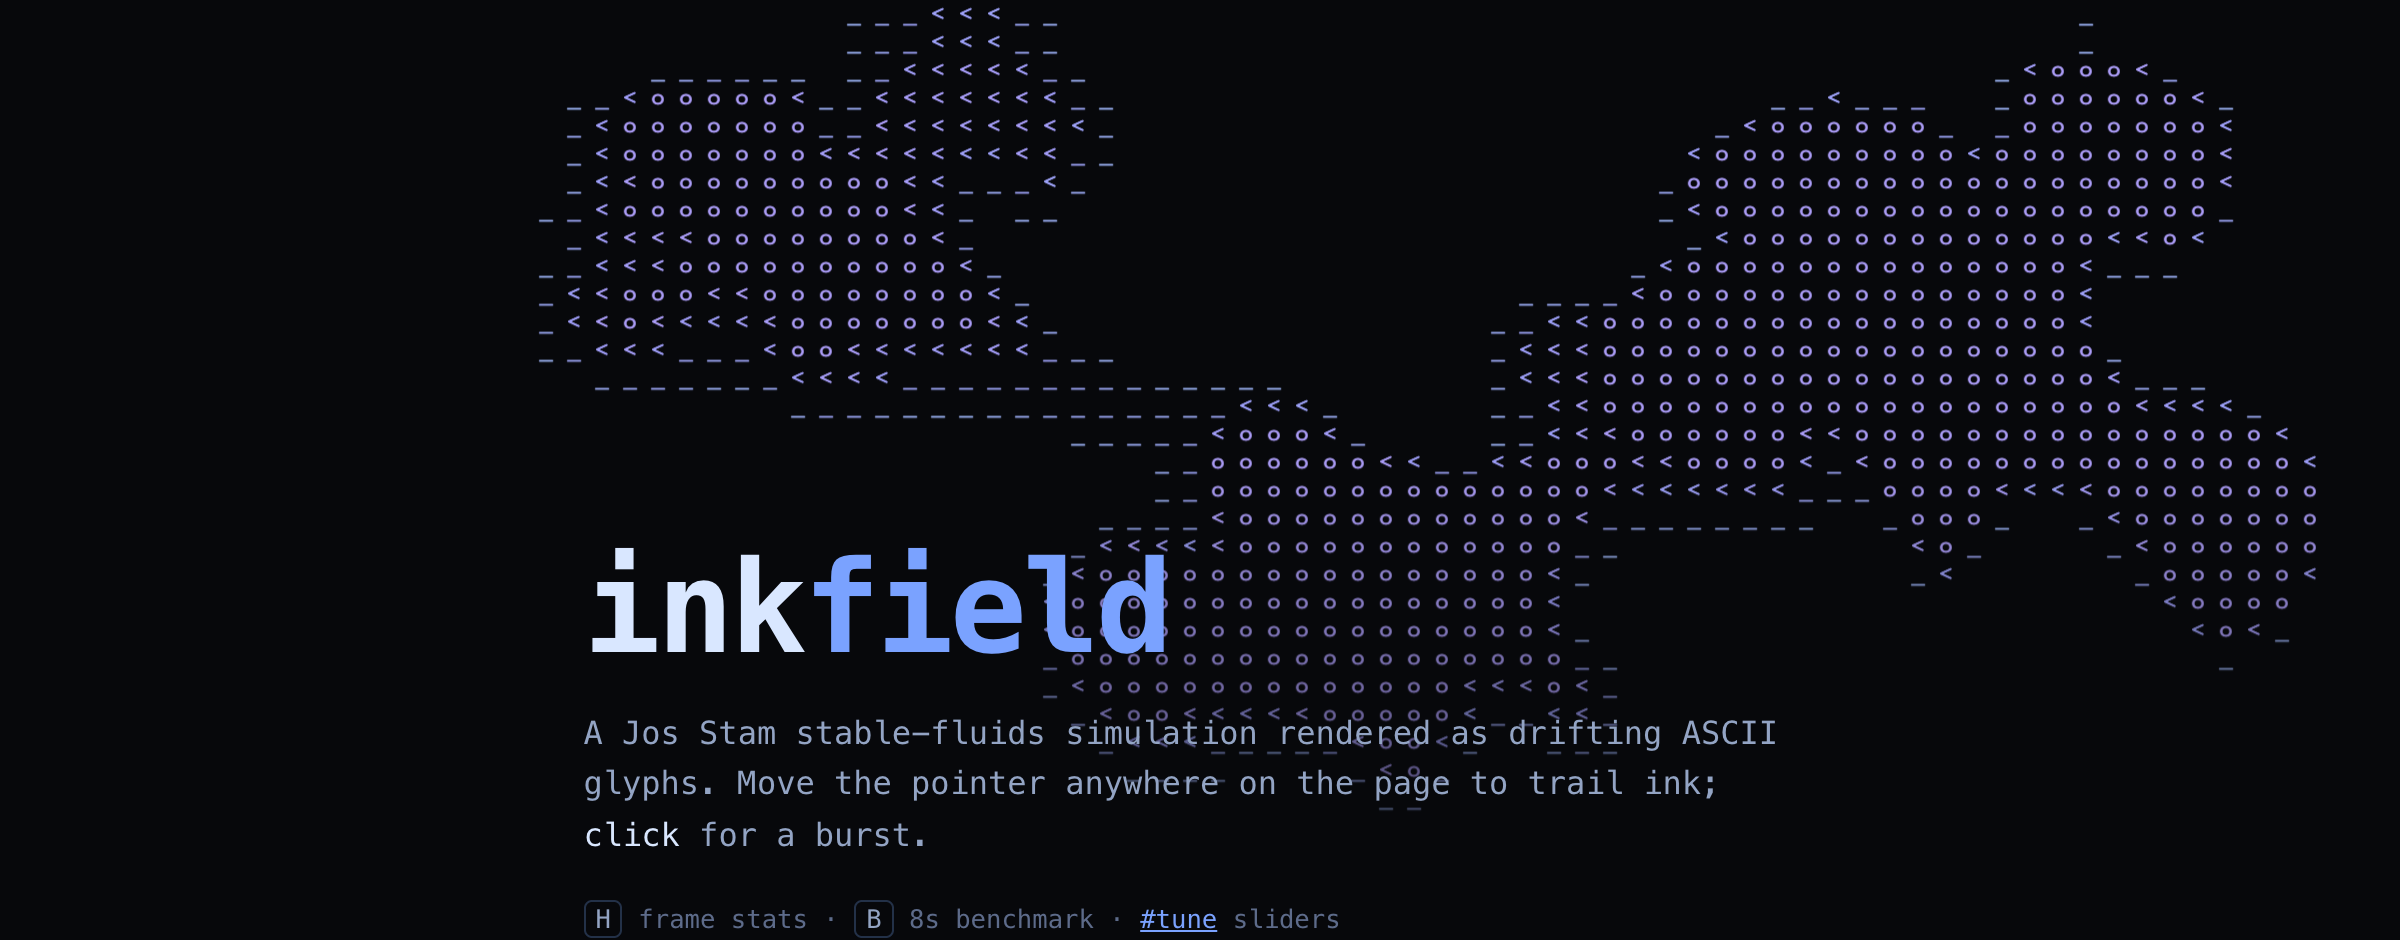
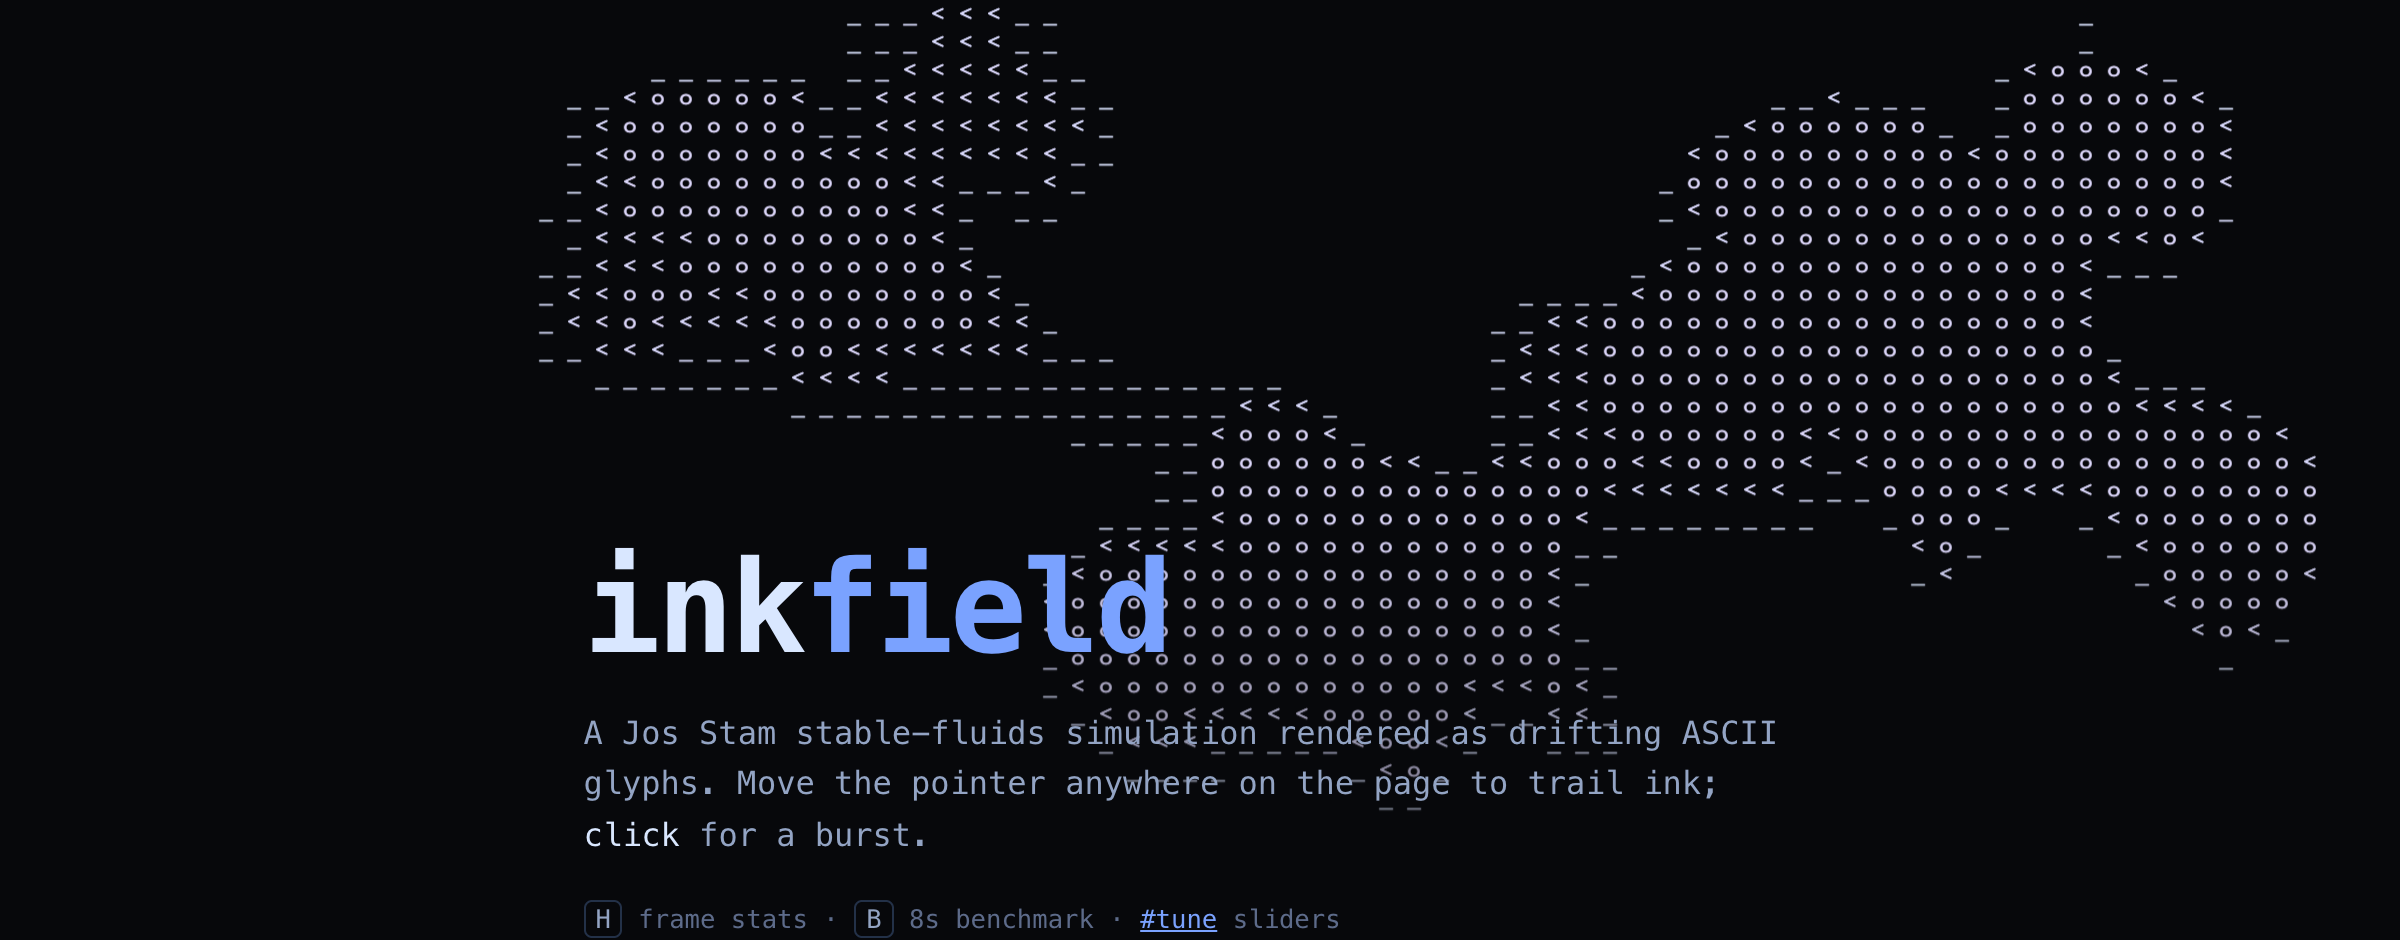
feat: brighten the glyphs so faint ink stays visible on black
Brightness never varied with density -- the shader only shifts hue -- so a
fading trail is not dimmer ink, it is the ramp dropping to '_', a thin mark
carrying very few pixels. At lightness 80 those marks disappeared into the
background well before the simulation stopped tracking them.

lightness 80 -> 92, saturation 90 -> 88. The demo's mask floor goes with it,
0.15 -> 0.28, since a wash tuned against dimmer glyphs was hiding the ones
behind the body copy.

The cost is hue: at lightness 92 HSL collapses toward white, so baseHue and
hueShift read as a tint rather than a colour. Drop lightness back toward 80
for a saturated look.

diff --git a/index.html b/index.html
@@ -26,8 +26,8 @@
       /* Full strength through the hero, then down to a wash for the rest of the page, so
          ink still moves behind the copy without competing with it. The stops are in vh so
          the falloff stays anchored to the banner however long the page gets. */
-      -webkit-mask-image: linear-gradient(to bottom, #000 0, #000 30vh, rgba(0,0,0,0.20) 64vh, rgba(0,0,0,0.15) 100%);
-      mask-image: linear-gradient(to bottom, #000 0, #000 30vh, rgba(0,0,0,0.20) 64vh, rgba(0,0,0,0.15) 100%);
+      -webkit-mask-image: linear-gradient(to bottom, #000 0, #000 34vh, rgba(0,0,0,0.34) 64vh, rgba(0,0,0,0.28) 100%);
+      mask-image: linear-gradient(to bottom, #000 0, #000 34vh, rgba(0,0,0,0.34) 64vh, rgba(0,0,0,0.28) 100%);
     }
     /* Everything readable sits above the canvas. */
     .hero, main { position: relative; z-index: 1; }
@@ -322,8 +322,8 @@ const defaults = {
   clickDensity: 3.1,
   baseHue: 210,
   hueShift: 40,
-  saturation: 90,
-  lightness: 80,
+  saturation: 88,
+  lightness: 92,   // glyphs are thin marks on a dark ground; below ~90 the faint ones vanish
   alpha: 1,
 };
 

diff --git a/demo/index.html b/demo/index.html
@@ -25,8 +25,8 @@
       /* Full strength through the hero, then down to a wash for the rest of the page, so
          ink still moves behind the copy without competing with it. The stops are in vh so
          the falloff stays anchored to the banner however long the page gets. */
-      -webkit-mask-image: linear-gradient(to bottom, #000 0, #000 30vh, rgba(0,0,0,0.20) 64vh, rgba(0,0,0,0.15) 100%);
-      mask-image: linear-gradient(to bottom, #000 0, #000 30vh, rgba(0,0,0,0.20) 64vh, rgba(0,0,0,0.15) 100%);
+      -webkit-mask-image: linear-gradient(to bottom, #000 0, #000 34vh, rgba(0,0,0,0.34) 64vh, rgba(0,0,0,0.28) 100%);
+      mask-image: linear-gradient(to bottom, #000 0, #000 34vh, rgba(0,0,0,0.34) 64vh, rgba(0,0,0,0.28) 100%);
     }
     /* Everything readable sits above the canvas. */
     .hero, main { position: relative; z-index: 1; }

diff --git a/src/inkfield.js b/src/inkfield.js
@@ -19,8 +19,8 @@ export const defaults = {
   clickDensity: 3.1,
   baseHue: 210,
   hueShift: 40,
-  saturation: 90,
-  lightness: 80,
+  saturation: 88,
+  lightness: 92,   // glyphs are thin marks on a dark ground; below ~90 the faint ones vanish
   alpha: 1,
 };
 
